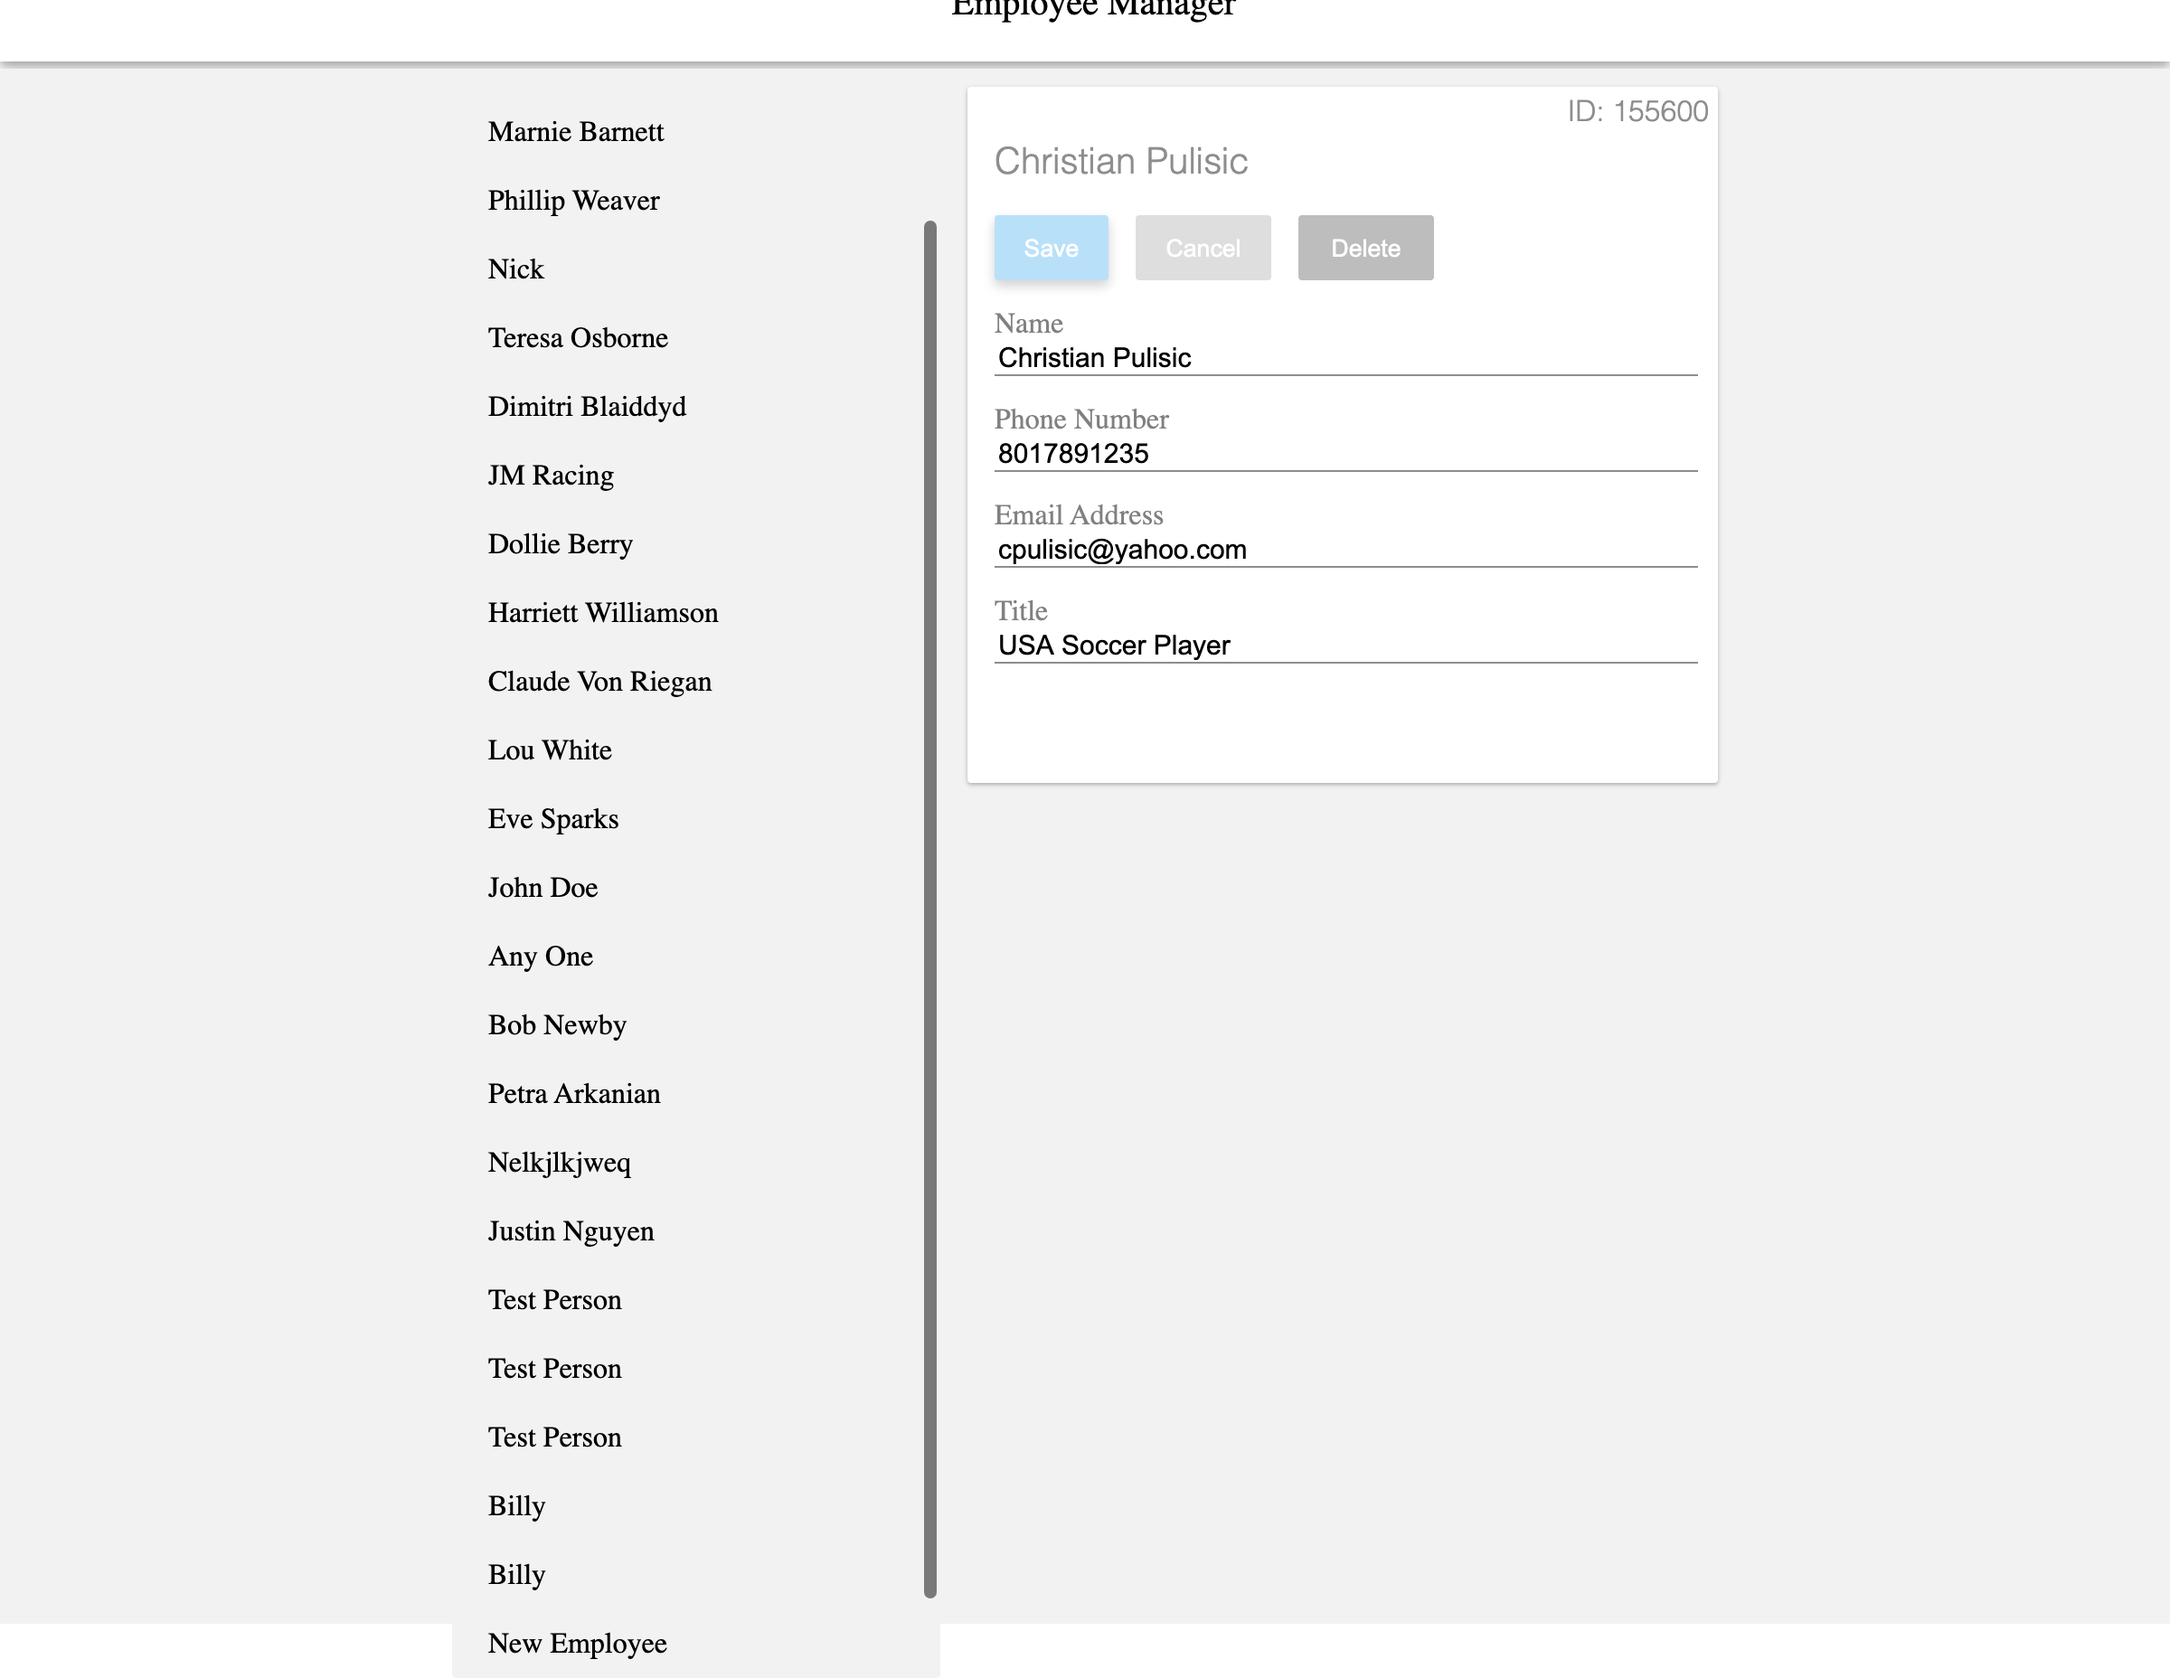
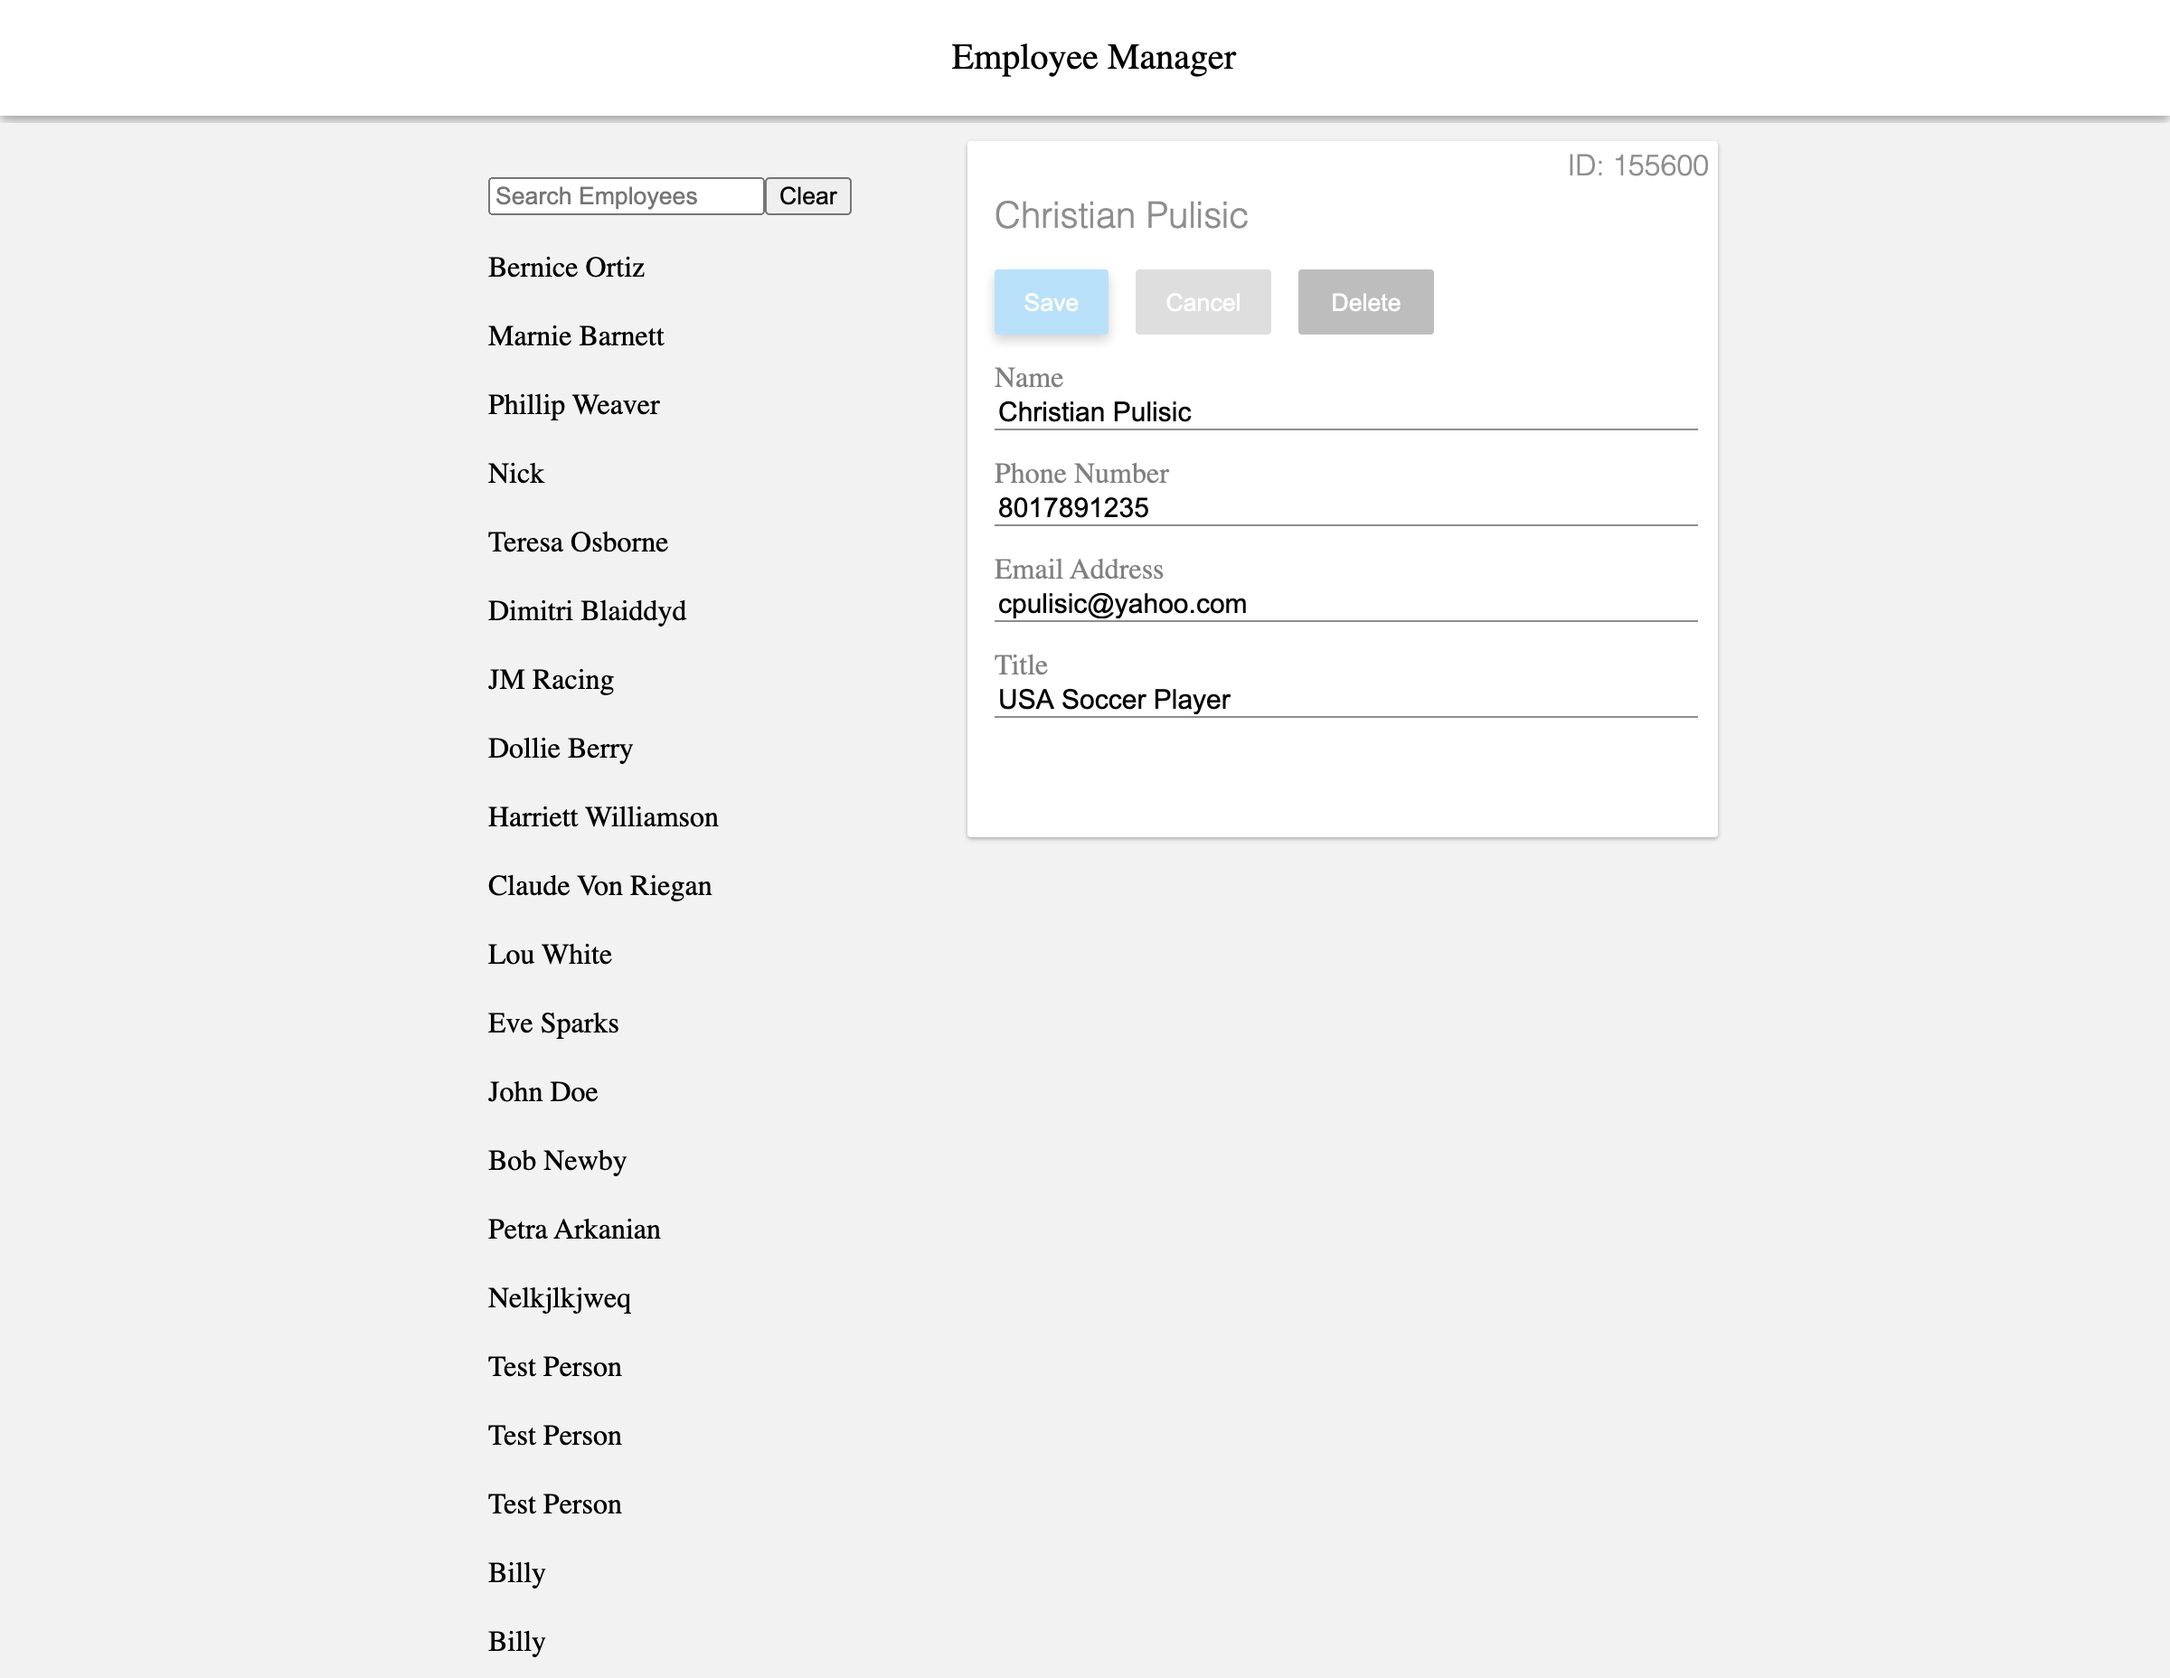
added new test

diff --git a/__tests__/emv2.test.ts b/__tests__/emv2.test.ts
@@ -85,6 +85,18 @@ describe("employee manager v2", () => {
     await page.takeScreenshot("screenShot/screenshotSearch");
   })
 
+  test("Seach employee 'Justin Nguyen and then delete it, then take screenshot'", async()=>{
+    await page.searchFor("Justin");
+    await page.selectEmployee("Justin Nguyen");
+    await page.deleteEmployee("Justin Nguyen");
+    await page.takeScreenshot("screenShot/Delete Justin");
+    let employeeList = await page.getEmployeeList();
+    expect(employeeList).not.toContain("Justin Nguyen");
+
+  })
+
+  
+
 
   test("Searching narrows the list", async () => {
     let originalList = await page.getEmployeeList();
